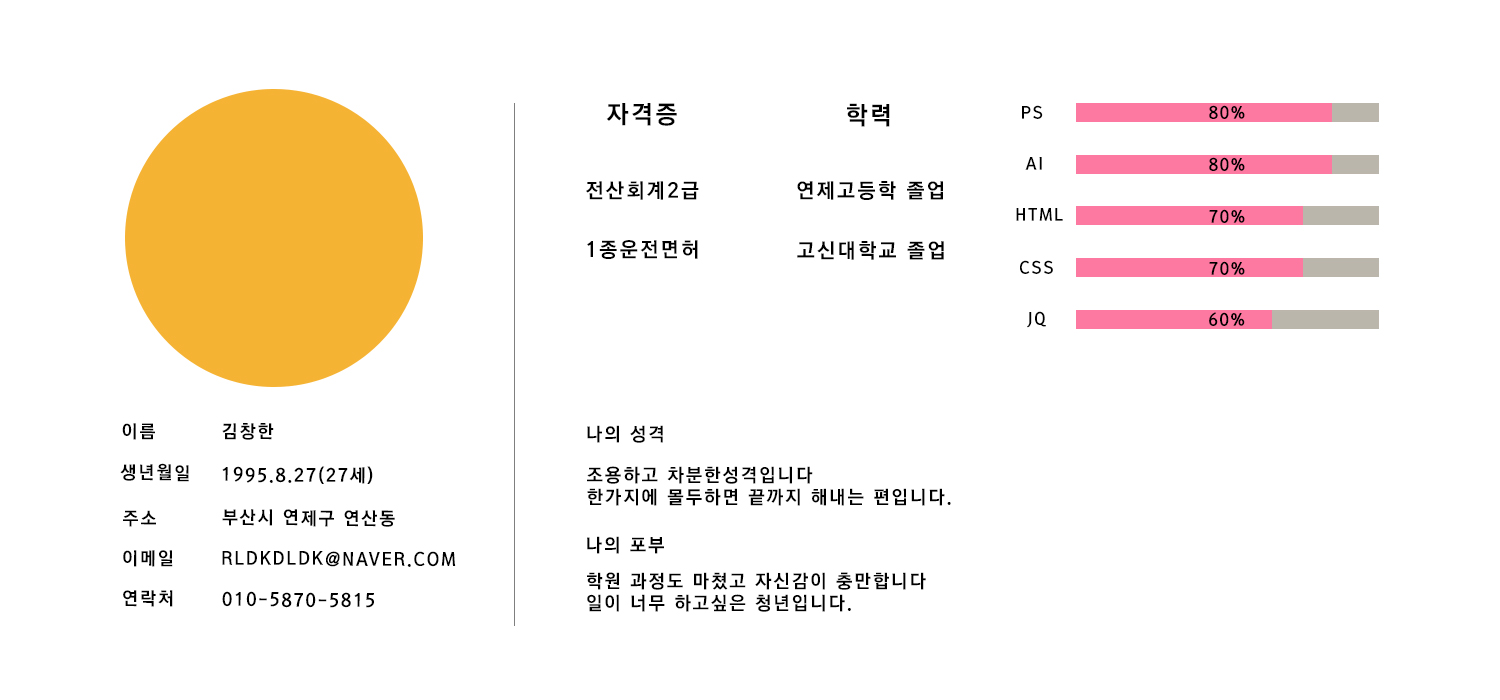
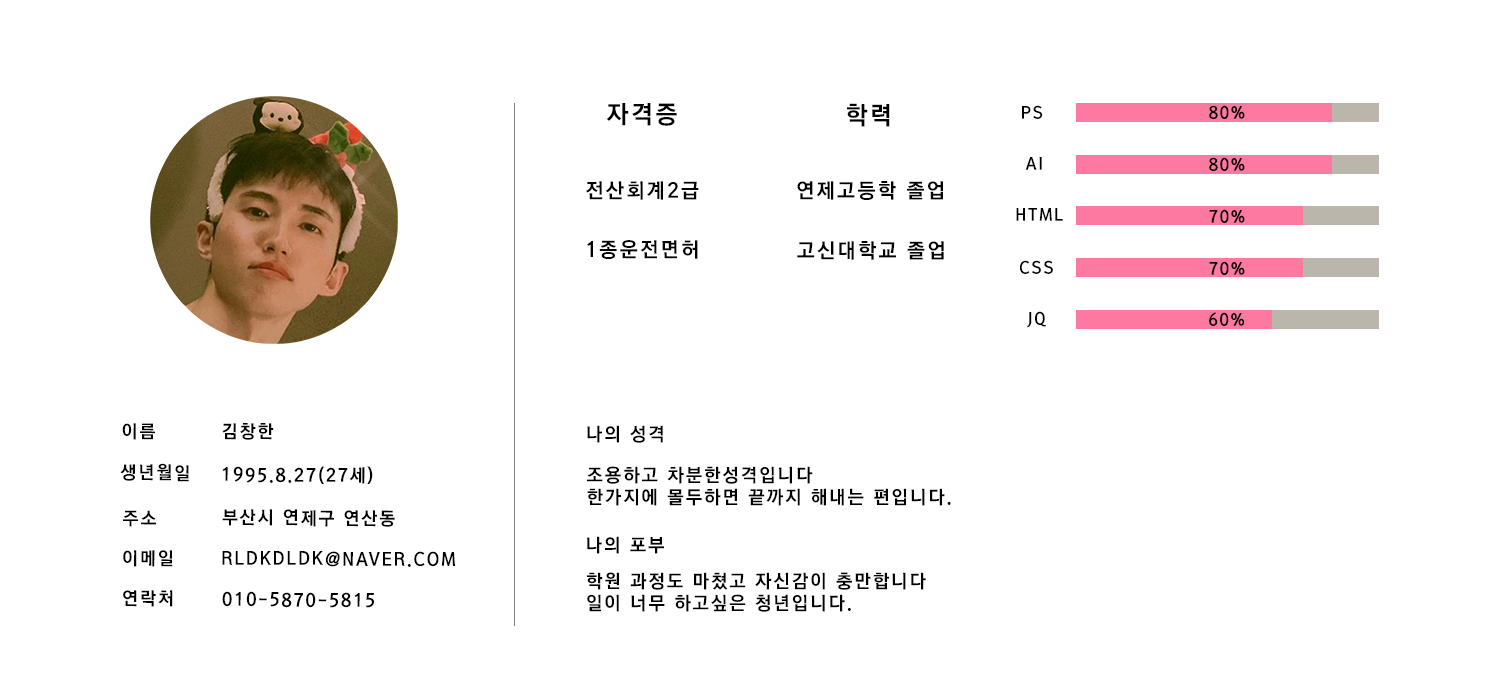
adf

Changed region(s): [[0.0613, 0.12, 0.3067, 0.57]]

diff --git a/index.html b/index.html
@@ -41,7 +41,7 @@
         <header class="masthead bg-primary text-white text-center">
             <div class="container d-flex align-items-center flex-column">
                 <!-- Masthead Avatar Image-->
-                <img class="masthead-avatar mb-5" src="img/face.1.png" alt="..." />
+                <img class="masthead-avatar mb-5" src="img/bb.png" alt="..." />
                 <!-- Masthead Heading-->
                 <h1 class="masthead-heading text-uppercase mb-0">김창한의 포토폴리오</h1>
                 <!-- Icon Divider-->
